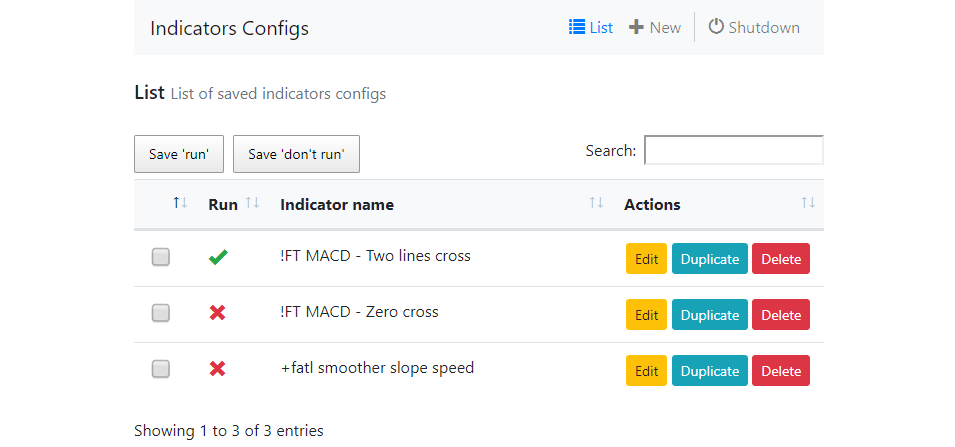
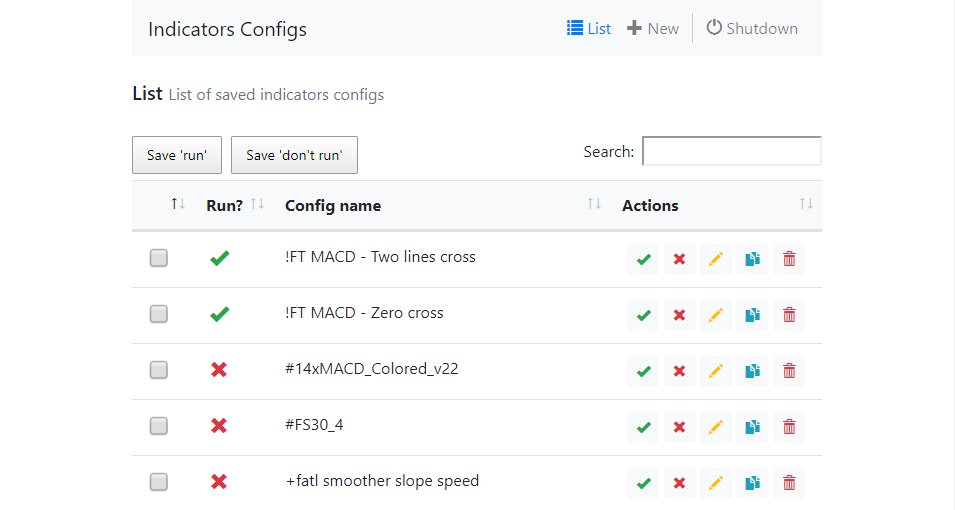
IndicatorsConfigs: added per row "run" and "dont run" buttons; set "run" by default on a new config; MultiMt4: multiple bug fixes and improvements; kill all workers if they are opened, on program start; check and add new configs if there are any to run during runtime;

diff --git a/multiMt4.php b/multiMt4.php
@@ -81,6 +81,10 @@ class MultiMt4
     private static $resultsList = [];
     private static $resultsPathTemplate = "results\\[{INDICATOR}]_{PAIR}_{FROMDATE}_{TODATE}-{STARTDATE}";
 
+    private static $indisAlreadyRun = [];
+
+    private static $firstStart = true;
+
     // go!
     public static function init()
     {
@@ -111,11 +115,18 @@ class MultiMt4
 
         $indi = null;
 
+        foreach (self::$config["workers"] as $key => $value)
+        {
+            self::checkTerminalAlreadyOpened($key);
+        }
+
         // loop
         while (true)
         {
             if ($indi === null)
             {
+                self::checkNewConfigsToRun($indicators);
+
                 if (count($indicators) === 0)
                 {
                     while (!self::checkWorkersDone())
@@ -138,6 +149,7 @@ class MultiMt4
 
             if (self::isMaxWorkersRunning())
             {
+                self::convertResultsToCsv(1);
                 sleep(1);
                 continue;
             }
@@ -148,6 +160,7 @@ class MultiMt4
             {
                 // indicator is done testing, move to the next one!
                 $indi->setRun(false);
+                self::$indisAlreadyRun[] = $indi->getName();
                 $indi = null;
                 continue;
             }
@@ -158,7 +171,7 @@ class MultiMt4
             if ($workerId === null)
             {
                 // while we wait for available workers, process results to csv (if needed)
-                self::convertResultsToCsv();
+                self::convertResultsToCsv(1);
                 sleep(1);
                 continue;
             }
@@ -174,8 +187,6 @@ class MultiMt4
         $pair = $indi->getCurrentPair();
         $indicatorName = $indi->getName();
 
-        self::checkTerminalAlreadyOpened($workerId);
-
         self::setEASettings($workerId, $indi->getEaConfig());
 
         self::setBackTesterSettings($indi, $workerId);
@@ -190,6 +201,7 @@ class MultiMt4
         if ($pid !== false)
         {
             self::$config["workers"][$workerId]["pid"] = $pid;
+
             self::saveConfig();
             //$indi->addWorker($workerId);
             pt("[Worker:$workerId][pid:$pid] Worker started: Indicator[".$indicatorName."], Pair[".$pair."]");
@@ -243,6 +255,7 @@ class MultiMt4
             "terminalPath" => $value,
             "dataPath" => "C:\Users\\".self::$user."\AppData\Roaming\MetaQuotes\Terminal\\".self::getHashFolder($value)."\\",
             "pid" => null,
+            "lastResultPath" => null,
         ];
     }
 
@@ -359,11 +372,17 @@ class MultiMt4
             mkdir($resultsFolder);
 
         self::$backTesterIni["TestReport"] = $lastResultPath . ".html";
-        self::$resultsList[] = 
+        $worker["lastResultPath"] = $worker["dataPath"] . $lastResultPath;
+        /*
+        $result = 
         [
             "path" => $worker["dataPath"] . $lastResultPath,
-            "workerId" => $workerId
+            "workerId" => $workerId,
+            "pid" => null,
         ];
+        self::$resultsList[] = $result;
+        */
+        //pt("[Worker:$workerId] Result added to list: ".print_r2($result, true));
 
         // save config
         $eaConfigData = [];
@@ -425,7 +444,9 @@ class MultiMt4
 
         foreach ($list as $key => $value)
         {
-            if ($worker["terminalPath"] . "terminal.exe" === $value["path"])
+            $path = $worker["terminalPath"] . "terminal.exe";
+
+            if ($path === $value["path"])
             {
                 shell_exec("taskkill /F /PID ".$value["pid"]);
                 sleep(1);
@@ -447,6 +468,9 @@ class MultiMt4
                     $allDone &= true;
                     pt("[Worker:$key][pid:".$value["pid"]."] Test finished");
                     self::$config["workers"][$key]["pid"] = null;
+
+                    if (!self::$firstStart)
+                        self::$resultsList[] = self::$config["workers"][$key]["lastResultPath"];
                 }
                 else
                 {
@@ -455,11 +479,33 @@ class MultiMt4
             }
         }
 
+        self::$firstStart = false;
+
         return $allDone;
     }
 
+    private static function checkNewConfigsToRun(array $indicatorsToRun)
+    {
+        $list = Indicator::listConfigs(true);
+        $alreadyDone = array_flip(self::$indisAlreadyRun);
+
+        $flag = false;
+        foreach ($list as $key => $value)
+        {
+            // name, run
+            if (isset($alreadyDone[$value["name"]]))
+                continue;
+
+            $flag = true;
+
+            $indicatorsToRun[] = new Indicator($value["name"], $value["run"]);
+        }
+        
+        return $flag;
+    }
+
     // process the reports into csv and copy all files to \results\ folder
-    public static function convertResultsToCsv()
+    public static function convertResultsToCsv(int $howMany = null)
     {
         // format: 1731;70.33;20;1.56;3.52;99.13;0.98%;73.68421053;Input1=18 ;Input2=21 ;Input3=10;ATRPeriod=14 ;Slippage=3 ;RiskPercent=2 ;TakeProfitPercent=100 ;StopLossPercent=150 ;ReopenOnOppositeSignal=1 ;OptimizationCalcType=0 ;IndicatorType=1 ;IndicatorIndex1=0 ;IndicatorIndex2=1 ;Input4=0 ;Input5=0 ;Input6=0 ;Input7=0 ;Input8=0
 
@@ -467,23 +513,46 @@ class MultiMt4
         if (!file_exists($resultsFolder))
             mkdir($resultsFolder);
 
-        foreach (self::$resultsList as $key => $value)
-        {
-            $path = $value["path"];
+        if ($howMany === null)
+            $howMany = count(self::$resultsList);
 
-            if (!file_exists($path.".html"))
+        $removeValue = function($s)
+        {
+            $index = array_search($s, self::$resultsList);
+            if ($index !== false)
             {
-                pt("[Worker:".$value["workerId"]."] Couldn't find report file on '".$value["dataPath"] . $value["lastResultPath"] . ".html"."'");
-                continue;
+                unset(self::$resultsList[$index]);
             }
+        };
+
+        $resultsList = self::$resultsList;
+        foreach ($resultsList as $key => $value)
+        {
+            if (!file_exists($value.".html"))
+            {
+                pt("Couldn't find report file on '".$value . ".html"."'");
+                $removeValue($value);
+                continue;
+                /*
+                print_r2($value);
+                print_r2(self::$resultsList);
+                die();
+                */
+            }
+
+            if ($howMany++ <= 0)
+                break;
 
             try
             {
                 // convert html to csv
                 $dom = new Dom;
-                $dom->loadFromFile($path.".html");
+                $dom->loadFromFile($value.".html");
                 $table = $dom->find('table', 1)->find("tr");
-                $rows = [ ["Pass", "Profit", "Total trades", "Profit factor", "Expected payoff", "Drawdown $", "Drawdown %", "OnTester result"] ];
+                $rows = 
+                [
+                    "Pass;Profit;Total trades;Profit factor;Expected payoff;Drawdown $;Drawdown %;OnTester result"
+                ];
                 foreach ($table as $key => $v)
                 {
                     if ($key === 0)
@@ -507,19 +576,23 @@ class MultiMt4
 
                 $csv = implode("\n", $rows);
 
+                if (count($rows) === 0)
+                    pt($value. " has 0 results!");
+
                 // save to csv
-                file_put_contents($path.".csv", $csv);
+                file_put_contents($value.".csv", $csv);
 
                 // move .htm and .csv files 
-                $newPath = $resultsFolder . array_reverse(explode("\\", $path))[0];
+                $newPath = $resultsFolder . array_reverse(explode("\\", $value))[0];
 
-                copy($path.".gif", $newPath.".gif");
-                copy($path.".html", $newPath.".html");
-                copy($path.".csv", $newPath.".csv");
+                copy($value.".gif", $newPath.".gif");
+                copy($value.".html", $newPath.".html");
+                copy($value.".csv", $newPath.".csv");
 
-                pt("[Worker:".$value["workerId"]."] Converted test result: ".$newPath);
+                $pi = pathinfo($newPath);
+                pt("Converted test result: ".$pi["filename"].".".$pi["extension"]);
 
-                unset(self::$resultsList[$key]);
+                $removeValue($value);
             }
             catch (\Exception $e)
             {
@@ -636,7 +709,7 @@ class MultiMt4
         {
             $f = $value;
 
-            if (!in_array([strlen($f) - 1], ["\\", "//"]))
+            if (!in_array($f[strlen($f) - 1], ["\\", "//"]))
                 $f .= "\\";
 
             if (!file_exists($f) || !file_exists($f."terminal.exe"))
@@ -709,7 +782,7 @@ class Indicator
     }
 
     // filter indicators configs: true = run, false = dont run, null = all
-    private static function listConfigs(bool $filterRun = null)
+    public static function listConfigs(bool $filterRun = null)
     {
         $indicatorsFolder = self::$indicatorsFolder;
         if (!file_exists($indicatorsFolder))
@@ -737,8 +810,6 @@ class Indicator
 
         return $list;
     }
-
-    //****************************************
 
     public function __construct(string $configPath, bool $run)
     {
@@ -791,7 +862,7 @@ class Indicator
 
     public function getName()
     {
-        return $this->config["eaIni"]["inputs"]["IndicatorPath"];
+        return $this->configPath;
     }
 
     public function setRun(bool $newRun)
@@ -804,19 +875,6 @@ class Indicator
         if (rename($oldname, $newname))
             $this->run = $newRun;
     }
-
-    /*
-    public function addWorker(int $id)
-    {
-        $this->workerIds[] = $id;
-    }
-
-    public function removeWorker(int $id)
-    {
-        if (($key = array_search($id, $this->workerIds)) !== false)
-            unset($this->workerIds[$key]);
-    }
-    */
 }
 
 if (php_sapi_name() === "cli")

diff --git a/indicatorsConfigs.php b/indicatorsConfigs.php
@@ -307,6 +307,7 @@ else if (isset($_GET["action"]))
         else
         {
             $config = loadDefaultConfig();
+            $config["run"] = true;
         }
 
         $eaIni = convertEaSettingsToTable($config);
@@ -415,8 +416,8 @@ else if (isset($_GET["action"]))
                                 <thead>
                                     <tr>
                                         <th class="bg-light" style="width: 20px;"></th>
-                                        <th class="bg-light" style="width: 10px;">Run</th>
-                                        <th class="bg-light">Indicator name</th>
+                                        <th class="bg-light" style="width: 10px;">Run?</th>
+                                        <th class="bg-light">Config name</th>
                                         <th class="bg-light" style="width: 170px;">Actions</th>
                                     </tr>
                                 </thead>
@@ -438,14 +439,20 @@ else if (isset($_GET["action"]))
                                             <?php echo $value["name"]; ?>
                                         </td>
                                         <td class="align-middle text-center">
-                                            <a class="btn btn-warning btn-sm" href="#" onclick="window.location='?action=edit&indicator='+encodeURIComponent('<?php echo base64_encode($value["name"]); ?>')">
-                                                Edit
+                                            <a class="btn btn-sm btn-light" title="Run" href="#" onclick="table.row(<?php echo $key; ?>).select(); buttonSaveRun(true, true)">
+                                                <span class="glyphicon glyphicon-ok text-success"></span>
                                             </a>
-                                            <a class="btn btn-info btn-sm" href="#" onclick="window.location='?action=new&indicator='+encodeURIComponent('<?php echo base64_encode($value["name"]); ?>')">
-                                                Duplicate
+                                            <a class="btn btn-sm btn-light" title="Don't run" href="#" onclick="table.row(<?php echo $key; ?>).select(); buttonSaveRun(false, true)">
+                                                <span class="glyphicon glyphicon-remove text-danger"></span>
                                             </a>
-                                            <a class="btn btn-danger btn-sm" href="#" onclick="return deleteIndicator('<?php echo base64_encode($value["name"]); ?>')">
-                                                Delete
+                                            <a class="btn btn-sm btn-light" title="Edit" href="#" onclick="window.location='?action=edit&indicator='+encodeURIComponent('<?php echo base64_encode($value["name"]); ?>')">
+                                                <span class="glyphicon glyphicon-pencil text-warning"></span>
+                                            </a>
+                                            <a class="btn btn-sm btn-light" title="Duplicate" href="#" onclick="window.location='?action=new&indicator='+encodeURIComponent('<?php echo base64_encode($value["name"]); ?>')">
+                                                <span class="glyphicon glyphicon-duplicate text-info"></span>
+                                            </a>
+                                            <a class="btn btn-sm btn-light" title="Delete" href="#" onclick="return deleteIndicator('<?php echo base64_encode($value["name"]); ?>')">
+                                                <span class="glyphicon glyphicon-trash text-danger"></span>
                                             </a>
                                         </td>
                                     </tr>
@@ -469,7 +476,7 @@ else if (isset($_GET["action"]))
                                 </span>
                                 &nbsp;
                                 <div class="form-check form-check-inline h6">
-                                    <input class="form-check-input" type="checkbox" <?php echo $action === "edit" ? ($config["run"] ? "checked" : "") : ""; ?> id="run-<?php echo $action; ?>" name="run" value="1">
+                                    <input class="form-check-input" type="checkbox" <?php echo $action !== "list" ? ($config["run"] ? "checked" : "") : ""; ?> id="run-<?php echo $action; ?>" name="run" value="1">
                                     <label class="form-check-label" for="run-<?php echo $action; ?>">Run</label>
                                 </div>
                                 <span class="float-right">
@@ -574,8 +581,11 @@ else if (isset($_GET["action"]))
     <script src="assets/js/dataTables.select.min.js"></script>
     <script src="assets/js/dataTables.buttons.min.js"></script>
     <script>
-        function buttonSaveRun(run)
+        function buttonSaveRun(run, skip)
         {
+            if (skip === undefined)
+                skip = false;
+
             var data = $("#table-list").DataTable().rows({selected: true}).data();
             if (data.length === 0)
             {
@@ -583,7 +593,7 @@ else if (isset($_GET["action"]))
                 return;
             }
 
-            if (confirm("Set "+data.length+" rows to "+(run ? "" : "not ")+"run?"))
+            var func = function()
             {
                 var indicators = [];
                 data.each(function(el, i)
@@ -596,7 +606,18 @@ else if (isset($_GET["action"]))
                 //window.location = "?action=save-run&indicator="+encodeURIComponent(indi);
                 $("#table-list").parents("form").submit();
                 return true;
+            };
+
+            if (skip)
+            {
+                func();
             }
+
+            if (!skip && confirm("Set "+data.length+" rows to "+(run ? "" : "not ")+"run?"))
+            {
+                func();
+            }
+
             return false;
         }
 
